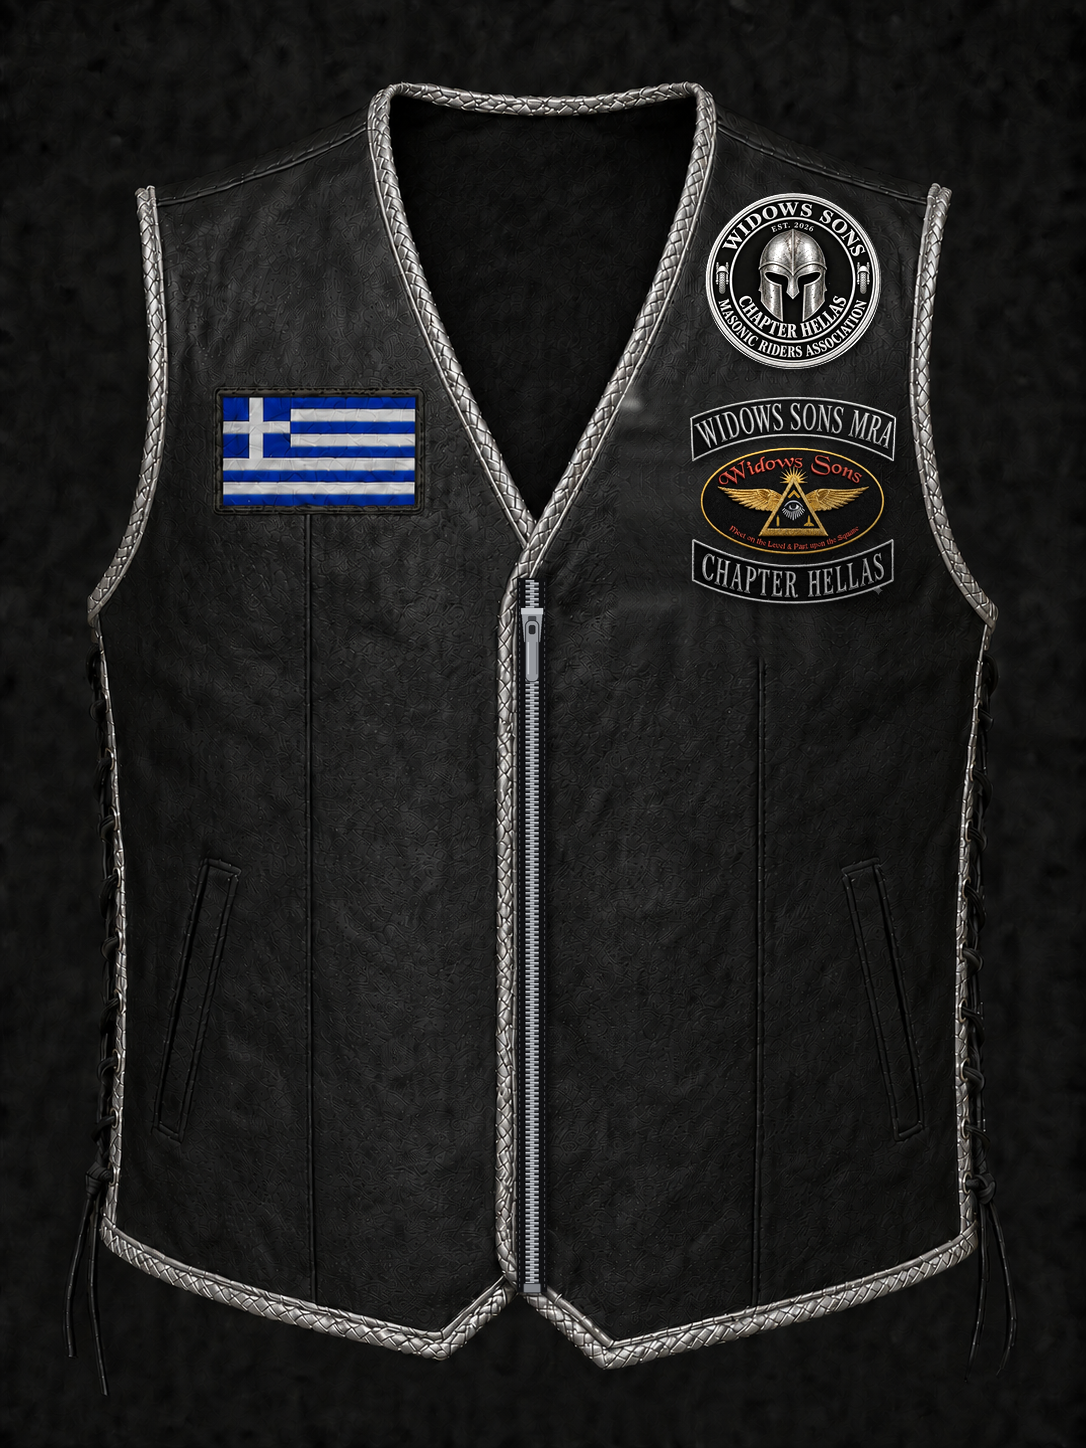
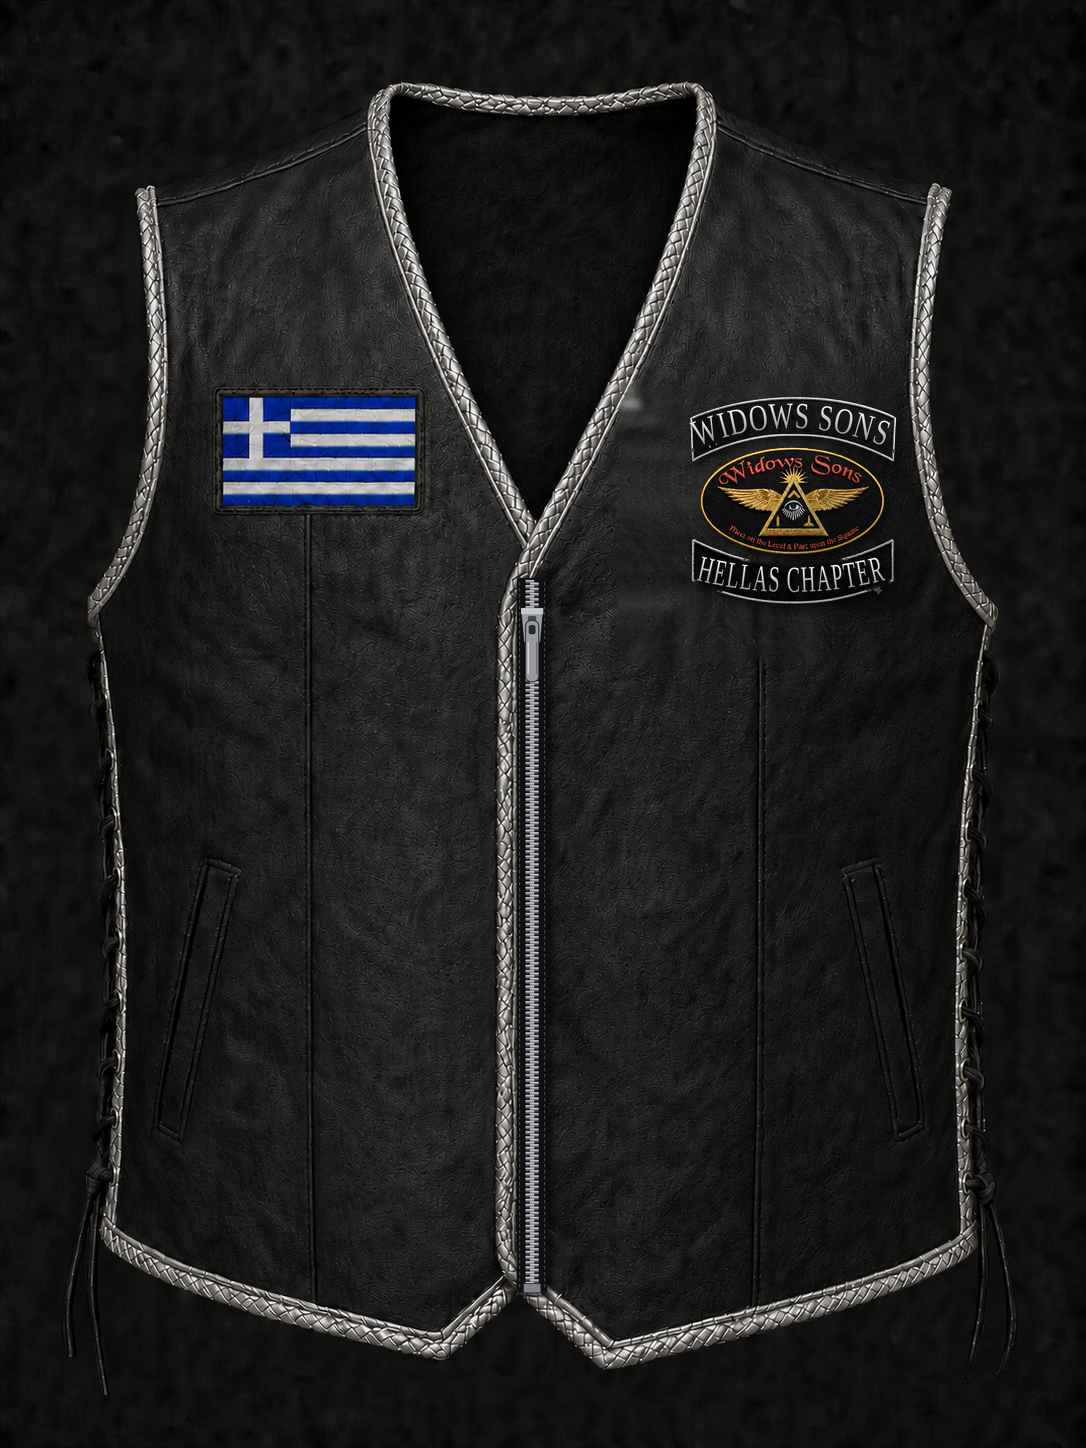
Front rockers read WIDOWS SONS / HELLAS CHAPTER; roundel taken off
On both vest photographs, silver trim and standard:
- n.7, the small top rocker, now reads WIDOWS SONS (MRA struck off),
  centred on the rocker.
- n.9, the small bottom rocker, now reads HELLAS CHAPTER in place of
  CHAPTER HELLAS, spread across the same width.
  The old stitching is lifted from each rocker and the new words are set
  along the rocker's own curve, each letter turned to follow it, in the
  same silver with its shadow.
- n.6, the Chapter roundel, is taken off the chest and the leather under
  it restored.

The numbers keep their places: 6 is left free, so 7 to 10 still name the
same patches. The legend names the new wording, the seal size is dropped
from the specifications, and the images carry a new cache stamp.

Claude-Session: https://claude.ai/code/session_01Ps87Ktm1jtAFeFkUS2SjFv

Changed region(s): [[0.6381, 0.1243, 0.8204, 0.3108], [0.6381, 0.3729, 0.8204, 0.4351]]

diff --git a/index.html b/index.html
@@ -88,15 +88,15 @@
         <p>PATCH NUMBERS</p>
         <ol>
           <li>National flag</li><li>Office rank</li><li>Roadname</li><li>Founder</li><li>Honorary</li>
-          <li>Chapter roundel</li><li>Top rocker (small)</li><li>Centre oval (small)</li><li>Bottom rocker (small)</li><li>Size tag</li>
+          <li value="7">Top rocker &mdash; WIDOWS SONS</li><li>Centre oval (small)</li><li>Bottom rocker &mdash; HELLAS CHAPTER</li><li>Size tag</li>
         </ol>
       </div>
-      <div class="specs"><div><span>Flag</span><strong>11 × 6 cm</strong></div><div><span>Name patches</span><strong>11 × 3 cm</strong></div><div><span>Front emblem</span><strong>8.2 × 8.2 cm</strong></div><div><span>Seal patch</span><strong>7 cm ⌀</strong></div><div><span>Vest size</span><strong>XL · 58 cm</strong></div></div>
+      <div class="specs"><div><span>Flag</span><strong>11 × 6 cm</strong></div><div><span>Name patches</span><strong>11 × 3 cm</strong></div><div><span>Front emblem</span><strong>8.2 × 8.2 cm</strong></div><div><span>Vest size</span><strong>XL · 58 cm</strong></div></div>
     </aside>
     <main>
       <header><div><p class="eyebrow">LIVE PREVIEW</p><h2 id="heading">President</h2></div><div class="badge active" id="trimBadge">Silver trim</div></header>
       <div class="stage"><div class="vest">
-        <img id="vestImage" src="vest-silver.png?v=zip1" alt="Widows Sons Chapter Hellas leather vest">
+        <img id="vestImage" src="vest-silver.png?v=hc1" alt="Widows Sons Chapter Hellas leather vest">
         <div class="size" id="sizeTag">SIZE<strong>XL</strong></div>
         <div class="patch rank" id="rankPatch">PRESIDENT</div>
         <div class="patch road" id="roadPatch">BUILDSMITH</div>
@@ -167,7 +167,8 @@
     const PNO=[
       {n:1,at:[.203,.268]},                 // national flag
       {n:2,el:'rankPatch'},{n:3,el:'roadPatch'},{n:4,el:'founderPatch'},{n:5,el:'honoraryPatch'},
-      {n:6,at:[.661,.143]},                 // Chapter roundel
+      // n.6, the Chapter roundel, is taken off the vest; its number is kept free
+      // so the numbers after it do not move.
       {n:7,at:[.639,.277]},                 // top rocker (small)
       {n:8,at:[.654,.318]},                 // centre oval (small)
       {n:9,at:[.640,.376]},                 // bottom rocker (small)
@@ -200,7 +201,7 @@
     // box depends on that patch's own text length.
     function matchPatchFonts(a,b){fitPatchFont(a);fitPatchFont(b);if(!a.clientWidth||!b.clientWidth)return;const size=Math.min(parseFloat(a.style.fontSize),parseFloat(b.style.fontSize));a.style.fontSize=size+'px';b.style.fontSize=size+'px'}
     function refitPatches(){fitPatchFont(hp);fitPatchFont(rp);matchPatchFonts(fp,rop);stackLeft()}
-    function updateRank(){const value=rank.value,silver=value==='President'||value==='Grand Master';rp.textContent=value.toUpperCase();fitPatchFont(rp);document.getElementById('heading').textContent=value;vest.src=silver?'vest-silver.png?v=zip1':'vest-standard.png?v=zip1';document.getElementById('silverNote').classList.toggle('hidden',!silver);const badge=document.getElementById('trimBadge');badge.textContent=silver?'Silver trim':'Standard trim';badge.classList.toggle('active',silver);if(value==='Grand Master'){type.value='Most Honorary';hp.textContent='MOST HONORARY'}fitPatchFont(hp)}
+    function updateRank(){const value=rank.value,silver=value==='President'||value==='Grand Master';rp.textContent=value.toUpperCase();fitPatchFont(rp);document.getElementById('heading').textContent=value;vest.src=silver?'vest-silver.png?v=hc1':'vest-standard.png?v=hc1';document.getElementById('silverNote').classList.toggle('hidden',!silver);const badge=document.getElementById('trimBadge');badge.textContent=silver?'Silver trim':'Standard trim';badge.classList.toggle('active',silver);if(value==='Grand Master'){type.value='Most Honorary';hp.textContent='MOST HONORARY'}fitPatchFont(hp)}
     rank.addEventListener('change',updateRank);
     road.addEventListener('input',()=>{road.value=road.value.toUpperCase().replace(/[^A-Z]/g,'').slice(0,10);rop.textContent=road.value||'ROAD NAME';matchPatchFonts(fp,rop);document.getElementById('count').textContent=road.value.length+'/10'});
     type.addEventListener('change',()=>{hp.textContent=type.value.toUpperCase();fitPatchFont(hp)});
